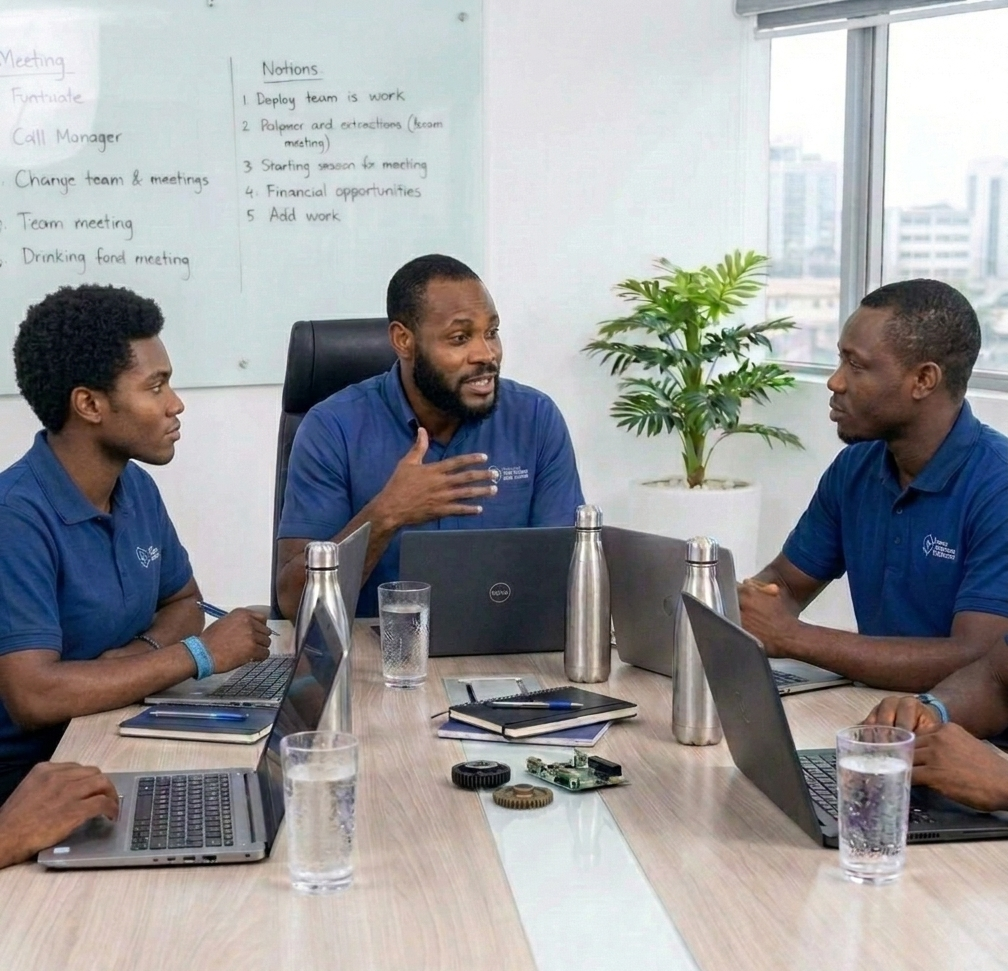
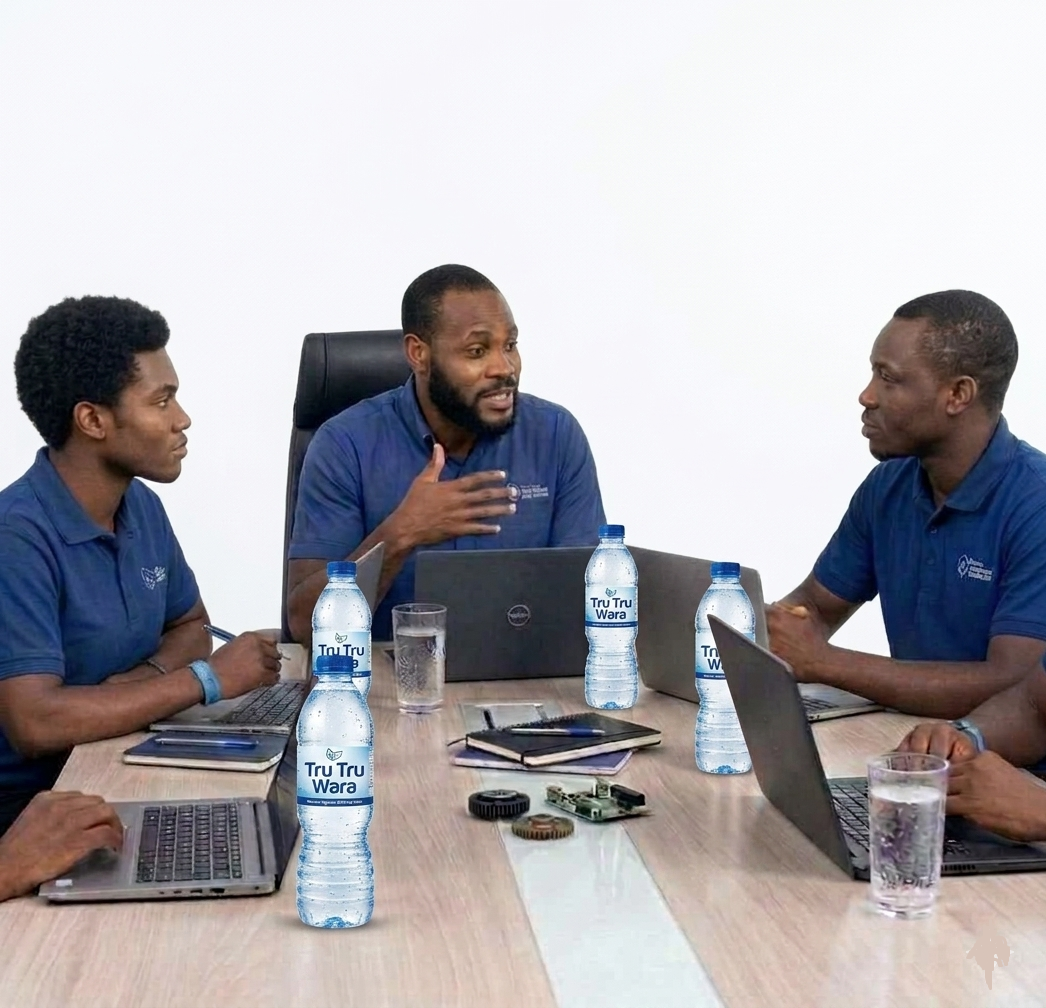
Top bar updates

diff --git a/index.htm b/index.htm
@@ -22,18 +22,17 @@
                     <i class="fas fa-map-marker-alt text-yellow-300"></i>
                     <span>Kokopo, East New Britain Province, PNG</span>
                 </div>
-
-            </div>
-            <div class="flex items-center gap-4 mt-2 md:mt-0">
-                <a href="#" class="hover:text-yellow-300 transition"><i class="fab fa-facebook-f"></i></a>
-                <a href="#" class="hover:text-yellow-300 transition"><i class="fab fa-linkedin-in"></i></a>
+                <div class="flex items-center gap-2">
+                    <i class="fas fa-phone-alt text-yellow-300"></i>
+                    <span>For Enquiries Call (+675) 7009 3434 / 83946536</span>
+                </div>
             </div>
         </div>
     </div>
 
     <!-- Main Navigation (Get a Quote buttons removed) -->
     <nav id="main-nav" class="fixed w-full z-40 glass-effect border-b border-gray-200">
-        <div class="max-w-7xl mx-auto px-6 py-3 flex justify-between items-center">
+            <div class="max-w-7xl mx-auto px-4 lg:px-6 py-3 flex justify-between items-center">
             <!-- Logo - Image placeholder for local logo -->
             <a href="index.htm" class="flex items-center logo-link">
                 <img src="images/business_logo.png" alt="Konnisys" class="logo-img">
@@ -44,7 +43,7 @@
             </a>
 
             <!-- Desktop Menu -->
-            <div class="hidden md:flex items-center gap-8 font-medium">
+            <div class="hidden md:flex items-center gap-5 lg:gap-8 font-medium">
                 <a href="#portfolio" class="nav-link">Portfolio</a>
                 <a href="#services" class="nav-link">Services</a>
                 <a href="#about" class="nav-link">About Us</a>
@@ -59,8 +58,8 @@
         </div>
 
         <!-- Mobile Menu (Get a Quote button removed) -->
-        <div id="mobile-menu" class="hidden md:hidden bg-white border-t border-gray-200 py-4 px-6">
-            <div class="flex flex-col gap-4">
+        <div id="mobile-menu" class="hidden md:hidden bg-white border-t border-gray-200 py-4 px-4">
+            <div class="flex flex-col gap-3">
                 <a href="#portfolio" class="nav-link-mobile">Portfolio</a>
                 <a href="#services" class="nav-link-mobile">Services</a>
                 <a href="#about" class="nav-link-mobile">About Us</a>
@@ -145,19 +144,19 @@
                     <div class="w-full md:w-48 h-28 md:h-32 flex items-center justify-center bg-gray-50 rounded-lg p-4">
                         <img src="images/partner01_smartech_png.jpg" alt="Konnisys" class="max-h-full max-w-full object-contain">
                     </div>
-                    <span class="text-sm md:text-base font-semibold text-slate-600 text-center">Smartech PNG</span>
+                    <span class="text-sm md:text-base font-bold text-slate-600 text-center">Smartech PNG</span>
                 </div>
                 <div class="flex flex-col items-center gap-4 opacity-50 hover:opacity-100 transition duration-500">
                     <div class="w-full md:w-48 h-28 md:h-32 flex items-center justify-center bg-gray-50 rounded-lg p-4">
                         <img src="images/partner02_kutzo.PNG" alt="Tech Partner 1" class="max-h-full max-w-full object-contain">
                     </div>
-                    <span class="text-sm md:text-base font-semibold text-slate-600 text-center">Kutzo</span>
+                    <span class="text-sm md:text-base font-bold text-slate-600 text-center">Kutzo</span>
                 </div>
                 <div class="flex flex-col items-center gap-4 opacity-50 hover:opacity-100 transition duration-500">
                     <div class="w-full md:w-48 h-28 md:h-32 flex items-center justify-center bg-gray-50 rounded-lg p-4">
                         <img src="images/tavolo-nature-tourism-logo.png" alt="Tech Partner 2" class="max-h-full max-w-full object-contain">
                     </div>
-                    <span class="text-sm md:text-base font-semibold text-slate-600 text-center">Tavolo Nature and Tourism</span>
+                    <span class="text-sm md:text-base font-bold text-slate-600 text-center">Tavolo Nature and Tourism</span>
                 </div>
             </div>
         </div>

diff --git a/style.css b/style.css
@@ -5,8 +5,19 @@
 
 /* Base layout safety (prevents width overflow + improves anchor alignment with fixed header) */
 *, *::before, *::after { box-sizing: border-box; }
-section[id] { scroll-margin-top: 9rem; }
-@media (max-width: 767px) { section[id] { scroll-margin-top: 11rem; } }
+/* scroll offsets handled below via --header-offset */
+
+/* Fixed header layout (top bar + main nav)
+   JS sets the actual offsets dynamically (script.js:updatePositions). */
+#top-bar{
+    display: flex;
+    align-items: center;
+}
+
+/* Anchor targets should land below the fixed header (value set via JS var) */
+:root{ --header-offset: 7rem; }
+html{ scroll-padding-top: var(--header-offset); }
+section[id]{ scroll-margin-top: calc(var(--header-offset) + 1rem); }
 
 /* Desktop hover */
 @media (hover: hover) and (pointer: fine) {
@@ -979,6 +990,13 @@ footer .border-t {
 
     #top-bar .flex.items-center.gap-4.md\\:mt-0 {
         margin-top: 0.5rem;
+    }
+
+    #top-bar{
+        padding-left: 1rem !important;
+        padding-right: 1rem !important;
+        font-size: 0.8rem;
+        line-height: 1.15;
     }
 
     /* Navigation */

diff --git a/script.js b/script.js
@@ -14,6 +14,9 @@
         const navHeight = mainNav.offsetHeight;
         const totalFixedHeight = topBarHeight + navHeight;
 
+        document.documentElement.style.setProperty('--header-offset', totalFixedHeight + 'px');
+        document.body.style.paddingTop = totalFixedHeight + 'px';
+
         hero.style.paddingTop = (totalFixedHeight + 16) + 'px';
         hero.style.paddingBottom = '5rem';
     }
